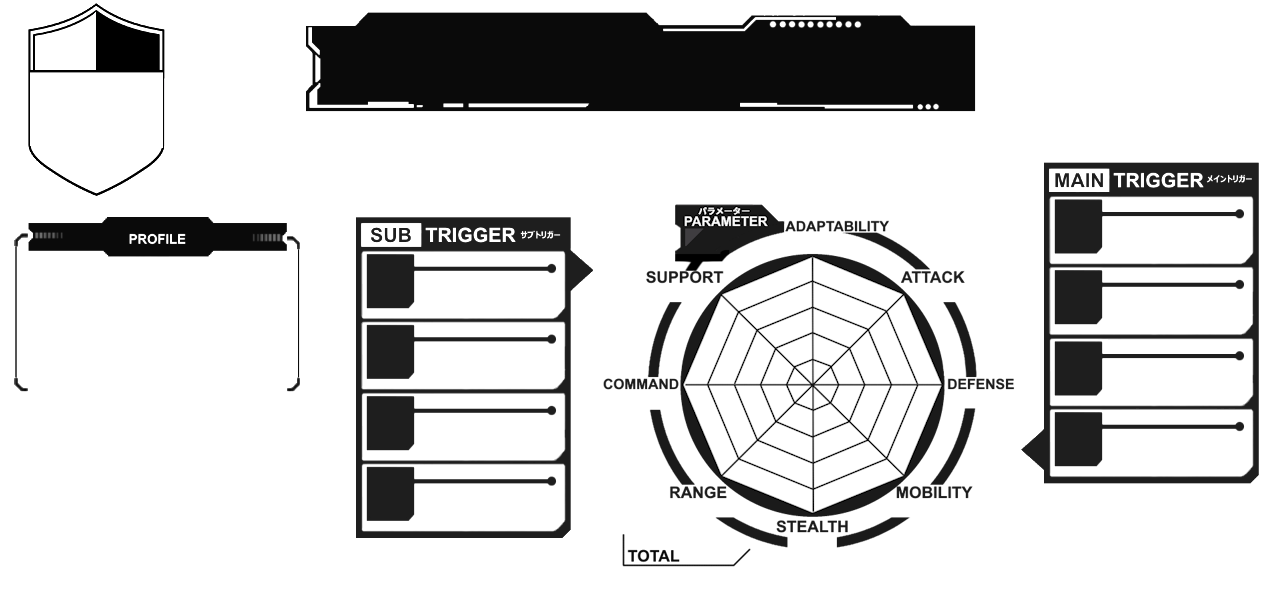
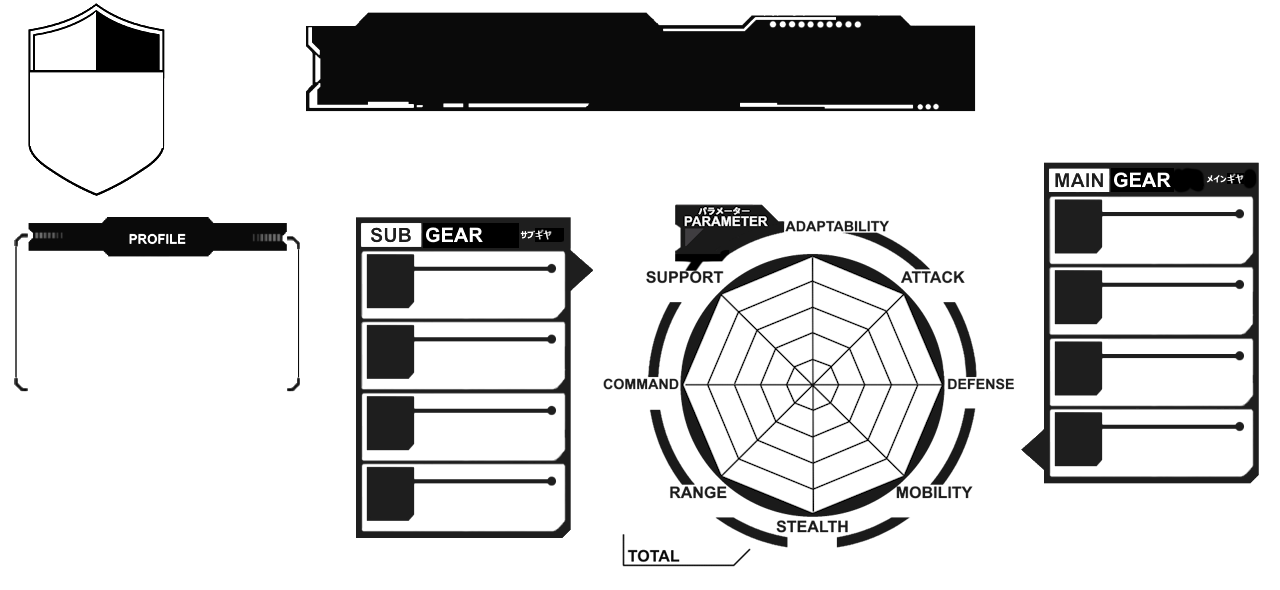
Trig to Gear

Changed region(s): [[0.8438, 0.2746, 1.0, 0.3356], [0.3125, 0.3661, 0.4375, 0.4271]]

diff --git a/index.html b/index.html
@@ -133,7 +133,7 @@
     </div>
     <hr />
     <div id="triggers">
-        <h3>Triggers</h3>
+        <h3>Gears</h3>
         <table>
             <tr>
                 <th>Sub</th>
@@ -703,10 +703,10 @@
         </table>
         <hr />
         <div id="customTriggers">
-            <h3>Custom Triggers</h3>
+            <h3>Custom Gears</h3>
             <paramTable>
                 <paramStat>
-                    <label>Trigger Image</label>
+                    <label>Gear Image</label>
                     <select id="customImg">
                         <option value="0">Optional</option>
                         <option value="1">Shield</option>
@@ -731,11 +731,11 @@
                     </select>
                 </paramStat>
                 <paramStat>
-                    <label>Trigger Name</label>
+                    <label>Gear Name</label>
                     <input type="text" id="customTriggerName" placeholder="Scorpion" />
                 </paramStat>
                 <paramStat>
-                    <label>Trigger Type</label>
+                    <label>Gear Type</label>
                     <select id="customTriggerType">
                         <option value="OPTION TRIGGER">Optional</option>
                         <option value="DEFENSE TRIGGER">Defense</option>
